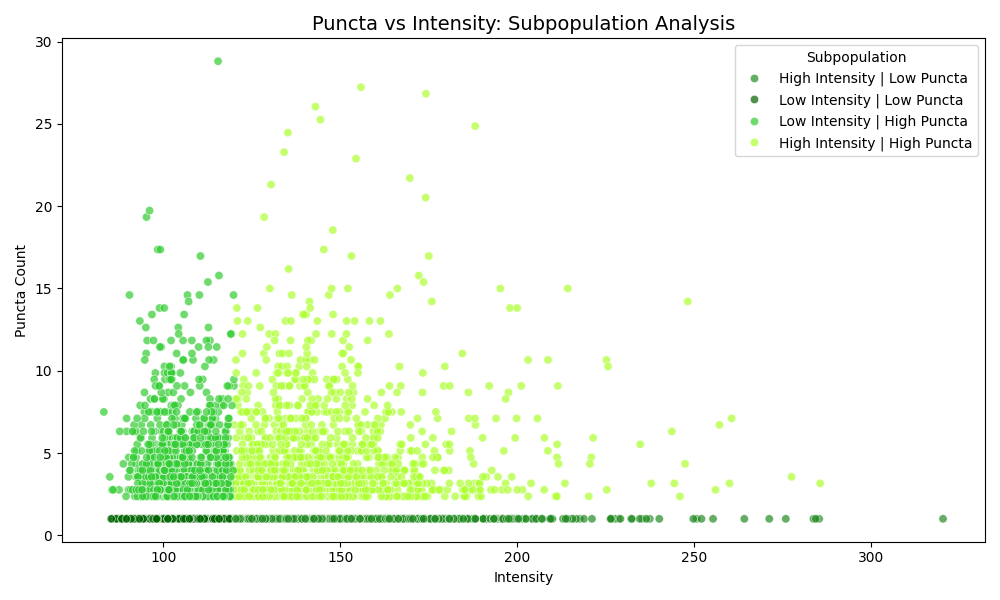
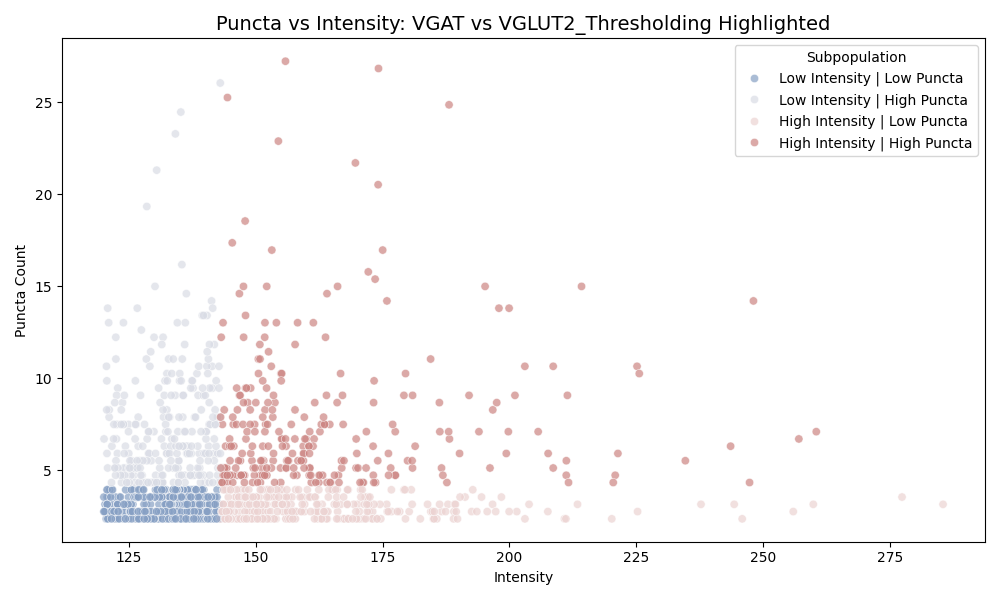
YESS IT WORKS dynamic binning

diff --git a/ImageAnalysis/VentralPallidum_Pipeline/comparison_intensityANDpuncta_vgatvglut2oprm1_plots.py b/ImageAnalysis/VentralPallidum_Pipeline/comparison_intensityANDpuncta_vgatvglut2oprm1_plots.py
@@ -1,29 +1,3 @@
-# Helper function to detect and remove outliers using the IQR method
-def remove_outliers(df, column):
-    if df.empty:
-        return df
-
-# Function to calculate the threshold (valley between peaks) dynamically
-def calculate_threshold(df, column):
-    if df.empty:
-        return None
-    
-    # Fit KDE
-    kde = gaussian_kde(df[column])
-    x = np.linspace(df[column].min(), df[column].max(), 1000)
-    y = kde(x)
-    
-    # Find peaks and valleys
-    peaks, _ = find_peaks(y)
-    valleys, _ = find_peaks(-y)
-
-    if len(valleys) > 0:
-        # Select the first valley as the threshold (or customize based on domain knowledge)
-        threshold = x[valleys[0]]
-        return threshold
-
-
-
 import os
 import pandas as pd
 import matplotlib.pyplot as plt
@@ -61,6 +35,17 @@ def read_data(file_path):
     except UnicodeDecodeError:
         print(f"Error reading file {file_path}: Unable to decode.")
         return None
+
+# Helper function to detect and remove outliers using the IQR method
+def remove_outliers(df, column):
+    if df.empty:
+        return df
+    Q1 = df[column].quantile(0.25)  # First quartile (25th percentile)
+    Q3 = df[column].quantile(0.75)  # Third quartile (75th percentile)
+    IQR = Q3 - Q1  # Interquartile range
+    lower_bound = Q1 - 1.5 * IQR
+    upper_bound = Q3 + 1.5 * IQR
+    return df[(df[column] >= lower_bound) & (df[column] <= upper_bound)]
 
 # Collect intensity data
 def collect_intensity_data(raw_detection_path, labels):
@@ -138,37 +123,60 @@ with open(stats_file_path, "w") as stats_file:
         stats_file.write(f"Puncta Comparison:\n")
         stats_file.write(f"  U-statistic: {puncta_stats.statistic}, p-value: {puncta_stats.pvalue}\n\n")
 
-    # Write subpopulation statistics for each classification
+    # # Write subpopulation statistics for each classification
 
+    # for key, df in data.items():
+    #     if not df.empty:
+    #         stats_file.write(f"Statistics for {key.replace('_', ' ').title()}\n")
+    #         stats_file.write(f"Total Cells: {len(df)}\n")
 
-    for key, df in data.items():
-        if not df.empty:
-            stats_file.write(f"Statistics for {key.replace('_', ' ').title()}\n")
-            stats_file.write(f"Total Cells: {len(df)}\n")
+    #         df["Subpopulation"] = pd.cut(
+    #             df["AF568: Cell: Mean"],
+    #             bins=[-float("inf"), 120, float("inf")],
+    #             labels=["Low Intensity", "High Intensity"]
+    #         ).astype(str) + " | " + pd.cut(
+    #             df["Num spots"],
+    #             bins=[-float("inf"), 2, float("inf")],
+    #             labels=["Low Puncta", "High Puncta"]
+    #         ).astype(str)
 
-            df["Subpopulation"] = pd.cut(
-                df["AF568: Cell: Mean"],
-                bins=[-float("inf"), 120, float("inf")],
-                labels=["Low Intensity", "High Intensity"]
-            ).astype(str) + " | " + pd.cut(
-                df["Num spots"],
-                bins=[-float("inf"), 2, float("inf")],
-                labels=["Low Puncta", "High Puncta"]
-            ).astype(str)
+    #         subpop_counts = df["Subpopulation"].value_counts()
+    #         for subpop, count in subpop_counts.items():
+    #             stats_file.write(f"  {subpop}: {count}\n")
 
-            subpop_counts = df["Subpopulation"].value_counts()
-            for subpop, count in subpop_counts.items():
-                stats_file.write(f"  {subpop}: {count}\n")
-
-            stats_file.write("\n")
-
-
-
+    #         stats_file.write("\n")
+    
 # Define a mapping of internal names to display names
 cell_type_rename = {
     "vgat_positive_oprm1_positive": "VGAT+: OPRM1+",
     "vglut2_positive_oprm1_positive": "VGLUT2+: OPRM1+"
 }
+
+# ------------------------ Descriptive Statistics ------------------------
+descriptive_stats_path = os.path.join(plots_dir, "descriptive_statistics.txt")
+
+with open(descriptive_stats_path, "w") as stats_file:
+    stats_file.write("Descriptive Statistics for VGAT and VGLUT2\n")
+    stats_file.write("=" * 50 + "\n\n")
+
+    for key, df in data.items():
+        if not df.empty:
+            stats_file.write(f"Descriptive Stats for {cell_type_rename[key]}:\n")
+            
+            # Compute descriptive statistics
+            intensity_desc = df["AF568: Cell: Mean"].describe()
+            puncta_desc = df["Num spots"].describe()
+            
+            stats_file.write("Intensity (AF568: Cell: Mean):\n")
+            stats_file.write(f"  Mean: {intensity_desc['mean']:.2f}, Median: {intensity_desc['50%']:.2f}\n")
+            stats_file.write(f"  Std: {intensity_desc['std']:.2f}, Min: {intensity_desc['min']:.2f}, Max: {intensity_desc['max']:.2f}\n")
+            stats_file.write(f"  Q1: {intensity_desc['25%']:.2f}, Q3: {intensity_desc['75%']:.2f}\n\n")
+
+            stats_file.write("Puncta (Num spots):\n")
+            stats_file.write(f"  Mean: {puncta_desc['mean']:.2f}, Median: {puncta_desc['50%']:.2f}\n")
+            stats_file.write(f"  Std: {puncta_desc['std']:.2f}, Min: {puncta_desc['min']:.2f}, Max: {puncta_desc['max']:.2f}\n")
+            stats_file.write(f"  Q1: {puncta_desc['25%']:.2f}, Q3: {puncta_desc['75%']:.2f}\n\n")
+            stats_file.write("-" * 50 + "\n")
 
 
 #Visualization
@@ -187,56 +195,41 @@ if subpop_comparison:
     # Apply renaming correctly
     subpop_comparison_df["Cell Type"] = subpop_comparison_df["Cell Type"].map(cell_type_rename)
 
-    # Categorize subpopulations BEFORE filtering
-    subpop_comparison_df["Subpopulation"] = pd.cut(
-        subpop_comparison_df["Intensity"],
-        bins=[-float("inf"), 120, float("inf")],
-        labels=["Low Intensity", "High Intensity"]
-    ).astype(str) + " | " + pd.cut(
-        subpop_comparison_df["Puncta"],
-        bins=[-float("inf"), 2, float("inf")],
-        labels=["Low Puncta", "High Puncta"]
-    ).astype(str)
-
-    # Store a copy of the full dataset before applying the threshold
-    full_data_df = subpop_comparison_df.copy()
-
     # Apply filtering: Only include points with Puncta > 2 and Intensity > 120
     filtered_df = subpop_comparison_df[
         (subpop_comparison_df["Puncta"] > 2) & (subpop_comparison_df["Intensity"] > 120)
     ]
 
-    # Ensure we still have valid data
-    if not full_data_df.empty:
-        # **PLOT 1: Puncta vs. Intensity (colored by Cell Type)**
-        plt.figure(figsize=(10, 6))
-        sns.scatterplot(
-            data=full_data_df,
-            x="Intensity",
-            y="Puncta",
-            hue="Cell Type",
-            palette="Set2",
-            alpha=0.7
-        )
-        plt.title("Puncta vs Intensity: VGAT vs VGLUT2", fontsize=14)
-        plt.xlabel("Intensity")
-        plt.ylabel("Puncta Count")
-        plt.legend(title="Cell Type", loc="upper right")
-        plt.tight_layout()
-        plt.savefig(os.path.join(plots_dir, "VGAT_vs_VGLUT2_Scatter.png"))
-        plt.close()
+    # Dynamically determine thresholds using the median of the dataset
+    intensity_threshold = filtered_df["Intensity"].median()
+    puncta_threshold = filtered_df["Puncta"].median()
 
-        # **PLOT 2: Subpopulation Analysis (colored by Subpopulation Class)**
+    # Apply dynamic binning
+    filtered_df["Subpopulation"] = pd.cut(
+        filtered_df["Intensity"],
+        bins=[-float("inf"), intensity_threshold, float("inf")],
+        labels=["Low Intensity", "High Intensity"]
+    ).astype(str) + " | " + pd.cut(
+        filtered_df["Puncta"],
+        bins=[-float("inf"), puncta_threshold, float("inf")],
+        labels=["Low Puncta", "High Puncta"]
+    ).astype(str)
+
+    # Ensure we still have valid data
+    if not filtered_df.empty:
+
+        # **PLOT1: Subpopulation Analysis (colored by Subpopulation Class)**
+        ##WANT THIS TO EVENTUALLY BIN BY LOW VS. HIGH DYNAMICALLY
         plt.figure(figsize=(10, 6))
         sns.scatterplot(
-            data=full_data_df,
+            data=filtered_df,
             x="Intensity",
             y="Puncta",
             hue="Subpopulation",
-            palette=viridis,  # Apply custom green shades
+            palette="vlag",  # Apply custom shades
             alpha=0.7
         )
-        plt.title("Puncta vs Intensity: Subpopulation Analysis", fontsize=14)
+        plt.title("Puncta vs Intensity: VGAT vs VGLUT2_Thresholding Highlighted", fontsize=14)
         plt.xlabel("Intensity")
         plt.ylabel("Puncta Count")
         plt.legend(title="Subpopulation", loc="upper right")
@@ -249,7 +242,7 @@ if subpop_comparison:
 
     # Ensure there is data left after filtering for the joint plot
     if not filtered_df.empty:
-        # **PLOT 3: Joint plot (filtered Puncta > 2, Intensity > 120)**
+        # **PLOT2: Joint plot (filtered Puncta > 2, Intensity > 120)**
         joint_plot = sns.jointplot(
             data=filtered_df,
             x="Intensity",
